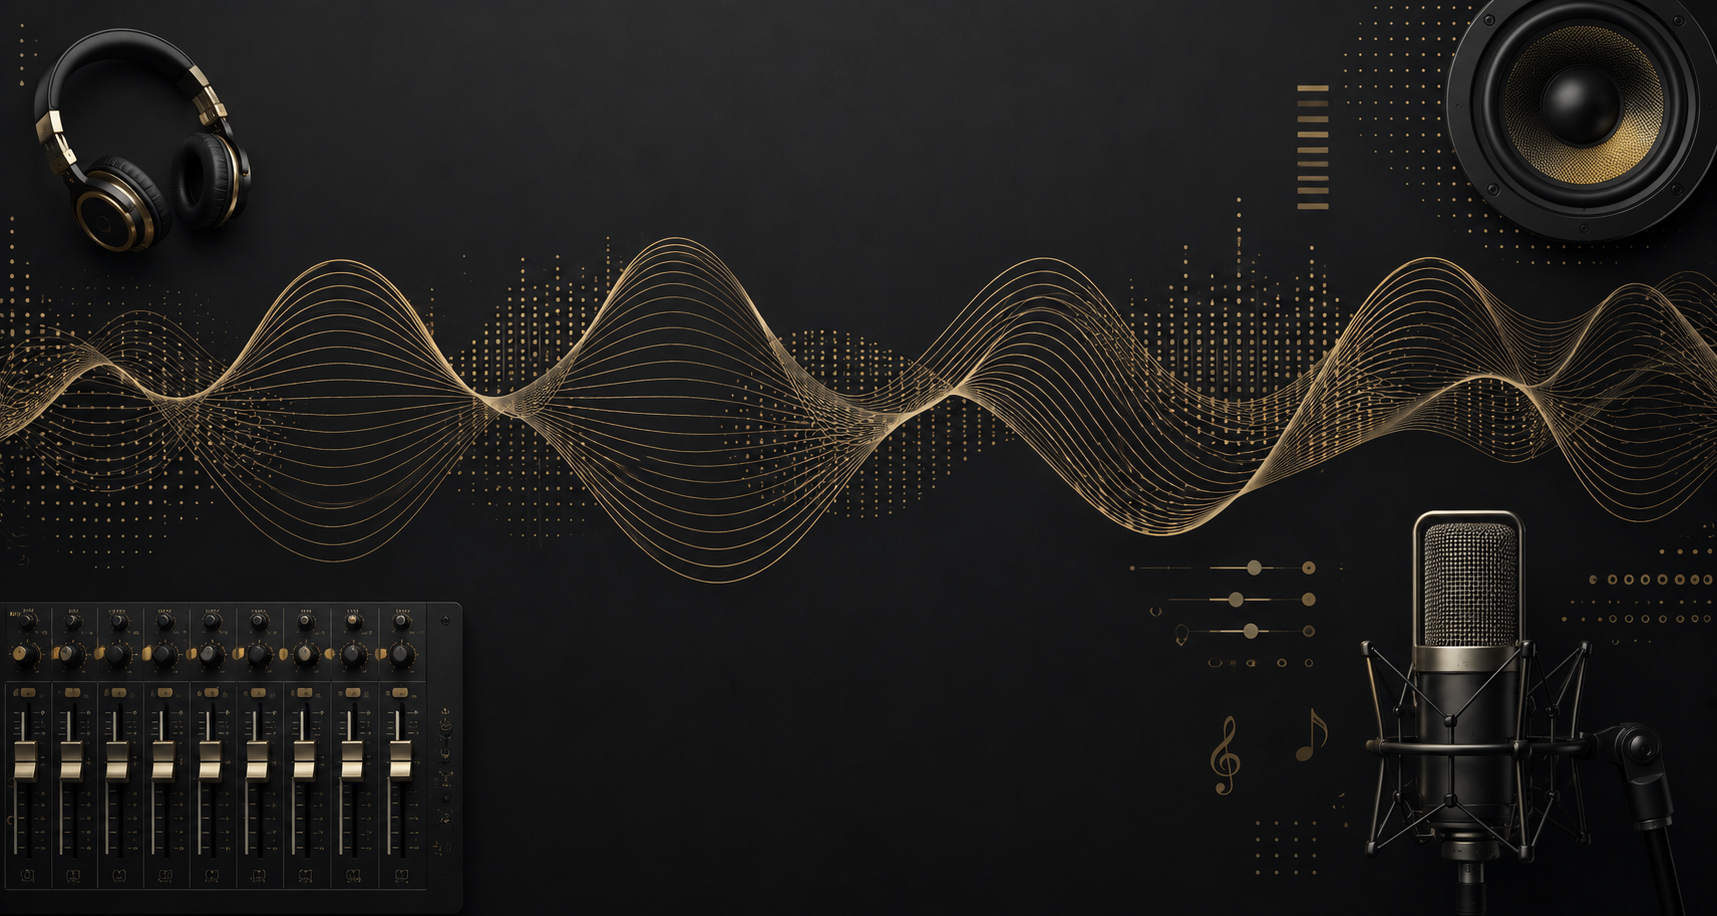
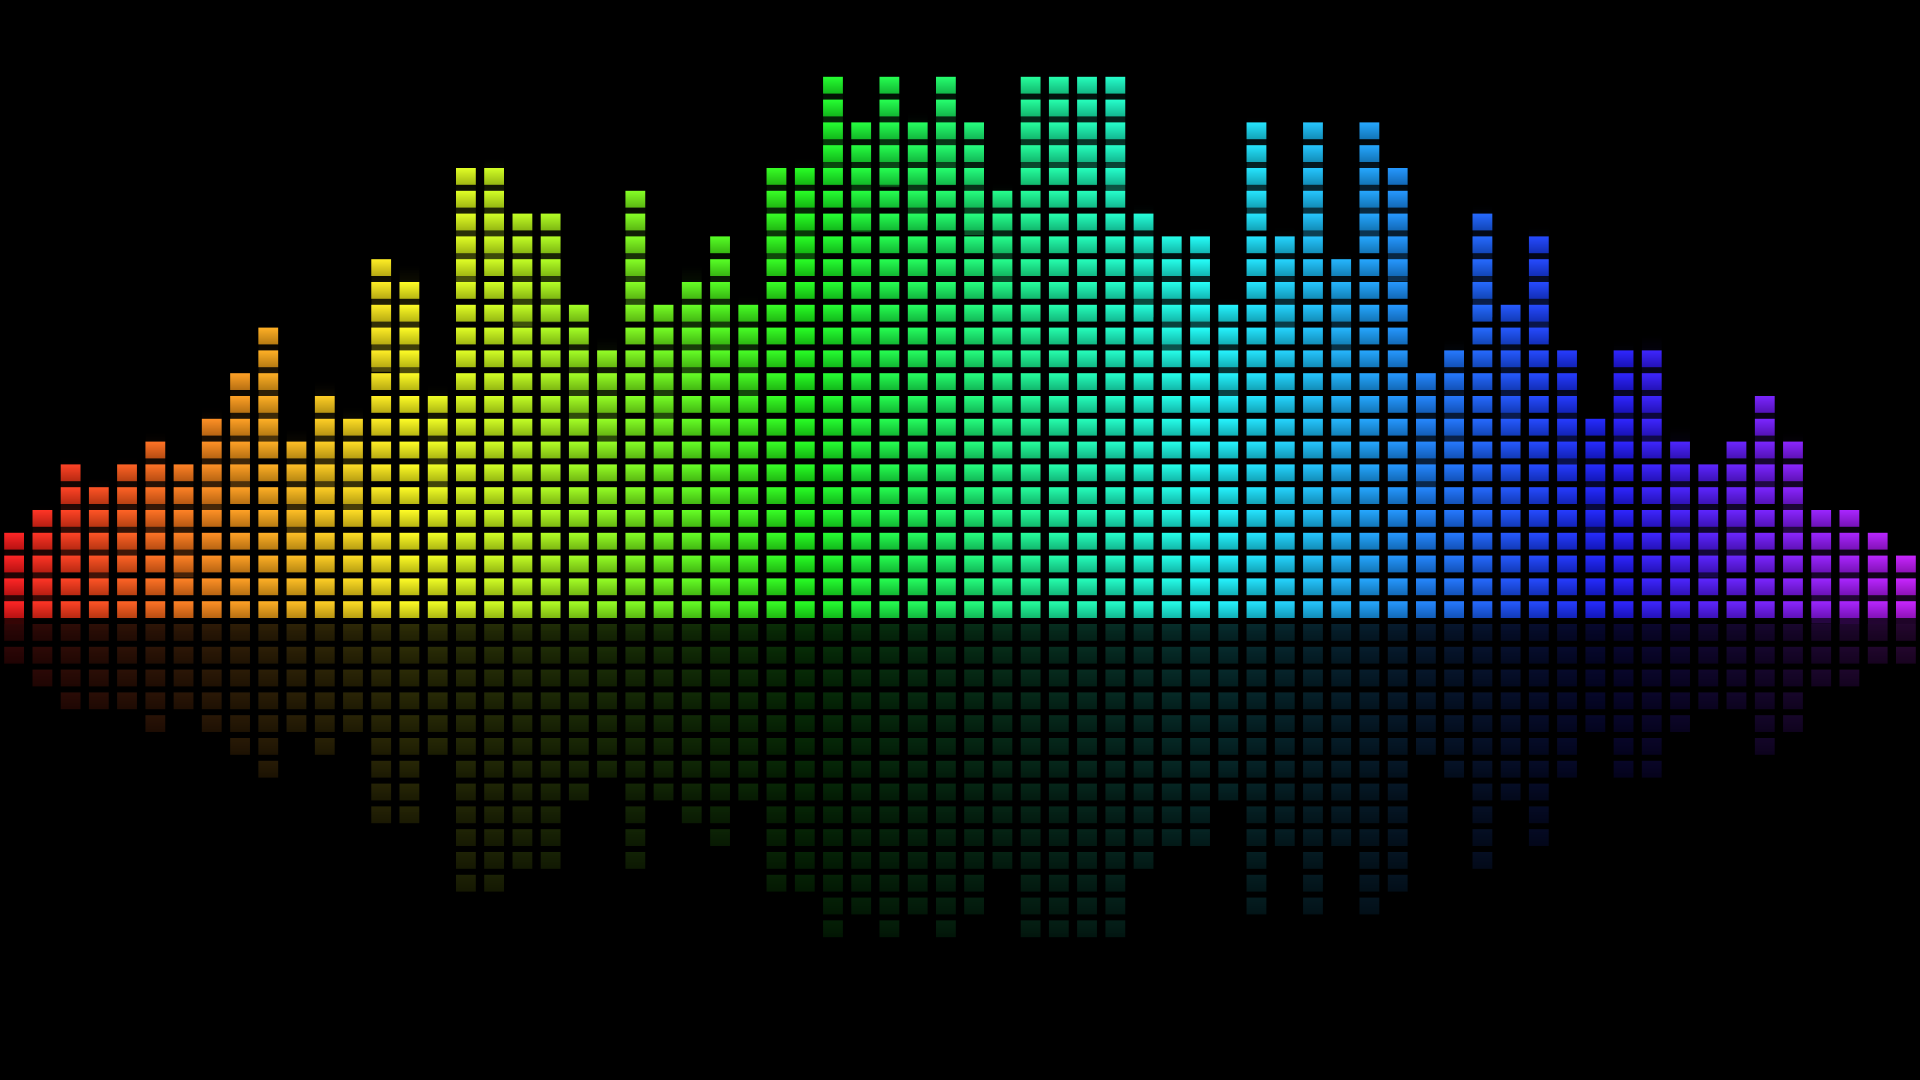
change back v2

diff --git a/styles-v2.css b/styles-v2.css
@@ -6,7 +6,8 @@
 
 body {
     font-family: vazir;
-    background: url(./images/back-3.png);
+    background: url(./images/back.png);
+    background-size: contain;
 }
 
 @media (max-width: 1280px){

diff --git a/index.html b/index.html
@@ -6,6 +6,7 @@
     <meta name="viewport" content="width=device-width, initial-scale=1.0" />
     <title>Studio Melody | استودیو ملودی</title>
     <link rel="stylesheet" href="styles-v2.css" />
+    <link rel="shortcut icon" href="./images/logo.png" type="image/x-icon">
     <link
       rel="stylesheet"
       href="https://cdnjs.cloudflare.com/ajax/libs/font-awesome/4.7.0/css/font-awesome.min.css"